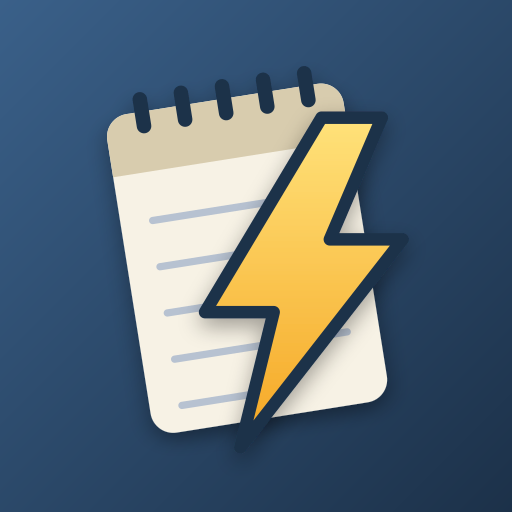
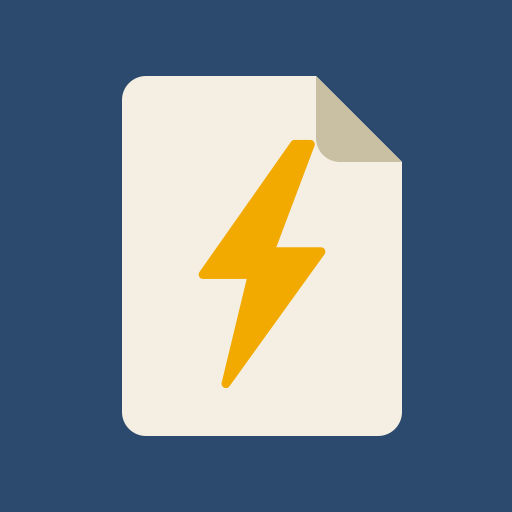
앱 아이콘을 그림에서 단순한 기호(노트+번개)로 바꿈 (wongo-v56)
Claude-Session: https://claude.ai/code/session_01UbA7DzsxiWVZHpExoAjb36

diff --git a/sw.js b/sw.js
@@ -1,6 +1,6 @@
 /* 오프라인 실행: 앱 파일을 기기에 보관해 두고, 인터넷이 없어도 열리게 한다.
    앱 파일을 고치면 VERSION을 올려야 기기에 새 버전이 들어간다. */
-const VERSION = 'wongo-v55';
+const VERSION = 'wongo-v56';
 const FONTS = 'wongo-fonts';
 const LIBS = 'wongo-libs';   // PDF 읽기 부품(vendor/): 처음 쓸 때 받아 보관한다. 앱 판이 바뀌어도 지우지 않는다
 const SHELL = [
